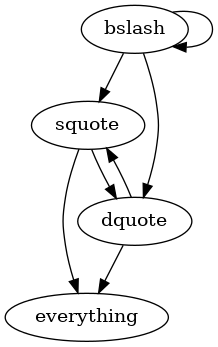
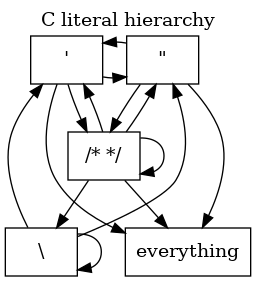
comment (integrated with lithier)

diff --git a/main.c b/main.c
@@ -252,18 +252,41 @@ void stray_backslash(char *src, char *esc, char *quot)
 
 void rem_comments(char *src, char *esc, char *quot)
 {
-  int i, c = 0;
+  int i = 0, c = 0;
   int incomment = 0;
-  for(i = 0; src[i+1]; i++)
+  while(src[i])
   {
-    if(src[i] == '/' && src[i+1] == '*' && !quot[i] && !quot[i+1])
+    if(src[i] == '/' && src[i+1] == '*' && !quot[i] && !quot[i+1]) // comment not in quotations
     {
-      
+      incomment = 1;
+      i += 2; // avoid /*/ occurrences which are not comments
     }
+    else if(incomment && src[i] == '*' && src[i+1] == '/') // comment close
+    {
+      incomment = 0;
+      src[c] = ' '; // replace whole comment with space
+      esc[c] = 0;
+      quot[c] = 0;
+      i += 2;
+      c++;
+    }
+
+    else if(!incomment) // not in comment, copy over
+    {
+      src[c] = src[i];
+      quot[c] = quot[i];
+      esc[c] = esc[i];
+      c++;
+      i++;
+    }
+    else // don't copy anything
+      i++;
   }
+
+  assert(!incomment); // no unterminated comments
+  src[c] = 0; // null terminate
   
 }
-
 
 int main()
 {
@@ -282,9 +305,9 @@ int main()
   mark_esc(src, esc); // mark backslash escape sequences
   mark_quot(src, esc, quot); // mark single and double quoted regions
 
-  stray_backslash(src, esc, quot); // check for stray backslashes, throw a tantrum if so
+  rem_comments(src, esc, quot); // replace multiline comments with single space
 
-  // replace multiline comments with single space
+  stray_backslash(src, esc, quot); // check for stray backslashes, throw a tantrum if so
 
   printf("%s", src);
   for(i = 0; i < strlen(src); i++)
